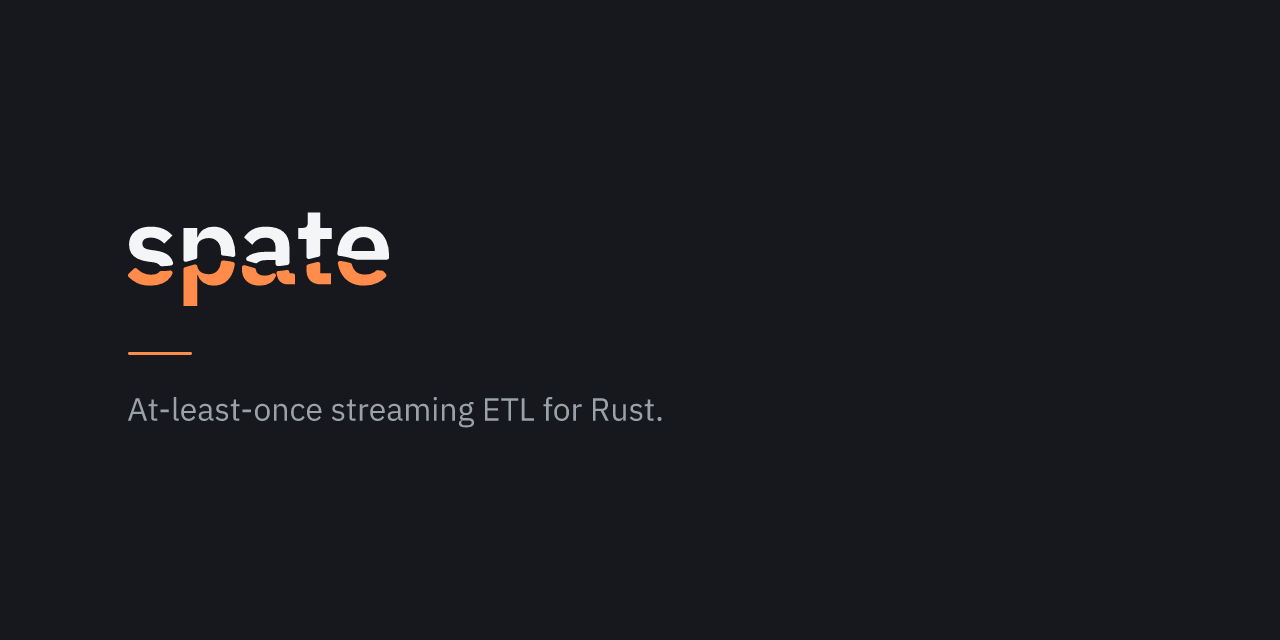
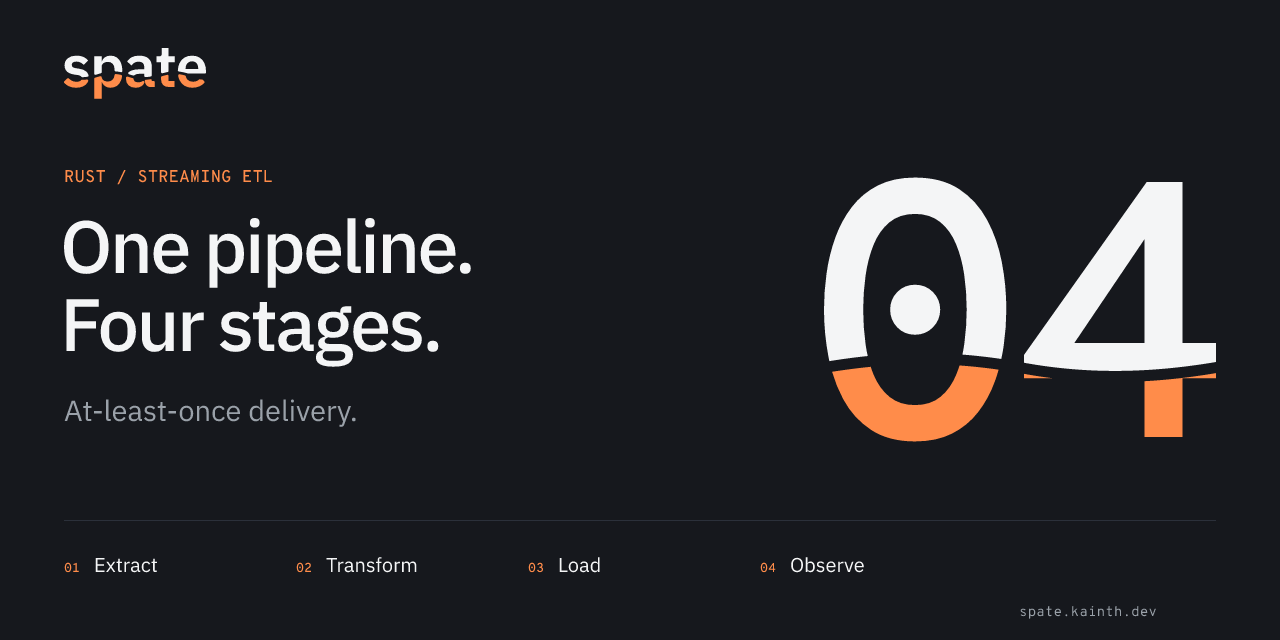
feat(website): the social cards on the waterline system
The site's Open Graph card becomes the title "One pipeline. Four stages." on
the dark ground beside a `04` carrier, with the four stage names beneath a
rule. The `04` counts the stages Extract, Transform, Load and Observe.

waterline.carrier() fits a numeral in Overpass Mono SemiBold into a box by its
ink and cuts it with a channel whose centre is two cubics at 0.72 of the
fitted ink height. The channel's vertical thickness is 0.042 of that height,
clamped to 2 to 20 px, so the water sits at the same height on every carrier
whatever the box's aspect ratio. Ink fills the part above, the accent the part
below, and the carrier is not blunted.

The card keeps GitHub's 1280x640 social preview size. Its layout is drawn for a
1200x630 card, and the extra width and height go to the items anchored right
and to the bottom row.

Overpass Mono is fetched from google/fonts and pinned by SHA-256 beside IBM
Plex Sans. Shaping reads each font's units per em, since Overpass Mono has
2000 and Plex 1000.

The benchmark card is unchanged: the wordmark, "benchmark", the accent rule
and its tagline. It carries no numeral, since a number on a benchmark card
reads as a result.

diff --git a/website/tools/brand/brandgen.py b/website/tools/brand/brandgen.py
@@ -18,42 +18,51 @@ from fontTools.pens.svgPathPen import SVGPathPen
 from fontTools.pens.transformPen import TransformPen
 
 import waterline
-from waterline import SRC_FONT, UPEM, instance
+from waterline import MONO_FONT, SRC_FONT, UPEM, instance
 
 HERE = pathlib.Path(__file__).parent
 STATIC = (HERE / ".." / ".." / "static" / "img").resolve()
 OUT = STATIC / "brand"
 
-# The wordmark is set in IBM Plex Sans (SIL Open Font License 1.1). The font is
-# fetched on demand rather than vendored: the glyphs ship as baked outlines, so
-# the repository never redistributes font software and the license surface is
-# unchanged. Pinned by digest. A mismatch means the upstream file moved, and
-# the wordmark is re-cut deliberately.
-FONT_URL = (
-    "https://github.com/google/fonts/raw/main/ofl/ibmplexsans/"
-    "IBMPlexSans%5Bwdth,wght%5D.ttf"
-)
[1 lines of base64/hex data omitted]
+# The wordmark is set in IBM Plex Sans and the carriers in Overpass Mono (both
+# SIL Open Font License 1.1). The fonts are fetched on demand rather than
+# vendored: the glyphs ship as baked outlines, so the repository never
+# redistributes font software and the license surface is unchanged. Pinned by
+# digest. A mismatch means the upstream file moved, and the artwork is re-cut
+# deliberately.
+FONTS = {
+    SRC_FONT: (
+        "https://github.com/google/fonts/raw/main/ofl/ibmplexsans/"
+        "IBMPlexSans%5Bwdth,wght%5D.ttf",
[1 lines of base64/hex data omitted]
+    ),
+    MONO_FONT: (
+        "https://github.com/google/fonts/raw/main/ofl/overpassmono/"
+        "OverpassMono%5Bwght%5D.ttf",
[1 lines of base64/hex data omitted]
+    ),
+}
 
 
-def ensure_font():
-    if SRC_FONT.exists():
-        digest = hashlib.sha256(SRC_FONT.read_bytes()).hexdigest()
-        if digest == FONT_SHA256:
-            return
-        print(f"cached font digest mismatch, refetching ({digest[:12]}…)")
+def ensure_fonts():
+    for path, (url, sha256) in FONTS.items():
+        if path.exists():
+            digest = hashlib.sha256(path.read_bytes()).hexdigest()
+            if digest == sha256:
+                continue
+            print(f"cached font digest mismatch, refetching ({digest[:12]}…)")
 
-    print(f"fetching {FONT_URL}")
-    SRC_FONT.parent.mkdir(parents=True, exist_ok=True)
-    with urllib.request.urlopen(FONT_URL) as r:  # noqa: S310 - pinned https URL
-        blob = r.read()
+        print(f"fetching {url}")
+        path.parent.mkdir(parents=True, exist_ok=True)
+        with urllib.request.urlopen(url) as r:  # noqa: S310 - pinned https URL
+            blob = r.read()
 
-    digest = hashlib.sha256(blob).hexdigest()
-    if digest != FONT_SHA256:
-        sys.exit(
-            f"font digest mismatch\n  expected {FONT_SHA256}\n  got      {digest}"
-        )
-    SRC_FONT.write_bytes(blob)
+        digest = hashlib.sha256(blob).hexdigest()
+        if digest != sha256:
+            sys.exit(
+                f"font digest mismatch for {path.name}\n  expected {sha256}\n  got      {digest}"
+            )
+        path.write_bytes(blob)
 
 # ---------------------------------------------------------------- palette
 #
@@ -132,15 +141,17 @@ SUB_WEIGHT, SUB_TRACK = 400, -0.012
 
 # ---------------------------------------------------------------- type
 
-def shape(text, weight, tracking=0.0):
-    """Shape `text` at upem scale, baseline at y=0, y-down.
+def shape(text, weight, tracking=0.0, src=SRC_FONT):
+    """Shape `text` in the font's own units, baseline at y=0, y-down.
 
-    Returns (path_d, advance, ink_bounds). `ink_bounds` is (x0, y0, x1, y1) with
-    y0 above the baseline (negative). `tracking` is in em, between glyphs only.
+    Returns (path_d, advance, ink_bounds, upem). `ink_bounds` is (x0, y0, x1, y1)
+    with y0 above the baseline (negative). `tracking` is in em, between glyphs
+    only.
     """
-    font, raw = instance(weight)
+    font, raw = instance(weight, src)
+    upem = font["head"].unitsPerEm
     hbfont = hb.Font(hb.Face(raw))
-    hbfont.scale = (UPEM, UPEM)
+    hbfont.scale = (upem, upem)
 
     buf = hb.Buffer()
     buf.add_str(text)
@@ -160,17 +171,17 @@ def shape(text, weight, tracking=0.0):
         glyphset[name].draw(TransformPen(bpen, t))
         cursor += pos.x_advance
         if i != len(infos) - 1:
-            cursor += tracking * UPEM
+            cursor += tracking * upem
 
-    return spen.getCommands(), cursor, bpen.bounds
+    return spen.getCommands(), cursor, bpen.bounds, upem
 
 
 class Run:
     """A shaped run of text, measured, ready to place at a baseline origin."""
 
-    def __init__(self, text, size, weight, tracking=0.0):
-        d, adv, ink = shape(text, weight, tracking)
-        k = size / UPEM
+    def __init__(self, text, size, weight, tracking=0.0, src=SRC_FONT):
+        d, adv, ink, upem = shape(text, weight, tracking, src)
+        k = size / upem
         self.d = d
         self.k = k
         self.advance = adv * k
@@ -385,25 +396,46 @@ def banner(art, sub, tagline, filename):
     )
 
 
-def gen_banners(art):
-    banner(
-        art,
-        None,
-        "At-least-once streaming ETL for Rust.",
-        "social-spate.svg",
+def gen_social_card(art):
+    """The site's Open Graph card on the dark ground, carrying the `04` of the
+    four stages. The layout is drawn for 1200×630; at 1280×640, items anchored
+    to the right move by the extra width and the bottom row by the extra height."""
+    c = TOKENS["dark"]
+    dx, dy = BANNER_W - 1200, BANNER_H - 630
+    margin = 64
+    fx0, fy0, fx1, _ = finished_ink(art)
+    s = 142 / (fx1 - fx0)
+    body = [f'<rect width="{BANNER_W}" height="{BANNER_H}" fill="{c["bg"]}"/>']
+    body += word_paths(art, Transform(s, 0, 0, s, margin - fx0 * s, 48 - fy0 * s), c["ink"], c["accent"])
+    body += [
+        Run("RUST / STREAMING ETL", 17, 500, src=MONO_FONT).at(64, 182, c["accent"]),
+        Run("One pipeline.", 74, 500, -0.035).at(60, 273, c["ink"]),
+        Run("Four stages.", 74, 500, -0.035).at(60, 351, c["ink"]),
+        Run("At-least-once delivery.", 29, 400).at(64, 421, c["muted"]),
+    ]
+    above, below = waterline.carrier("04", (744 + dx, 158, 392, 303))
+    body += pieces([above], [below], Transform(), c["ink"], c["accent"])
+    body.append(
+        f'<rect x="{margin}" y="{510 + dy}" width="{BANNER_W - 2 * margin}" height="1" fill="{c["border"]}"/>'
     )
+    col = 232
+    for i, stage in enumerate(["Extract", "Transform", "Load", "Observe"]):
+        body.append(Run(f"0{i + 1}", 13, 500, src=MONO_FONT).at(64 + i * col, 562 + dy, c["accent"]))
+        body.append(Run(stage, 20, 400).at(94 + i * col, 562 + dy, c["ink"]))
+    body.append(Run("spate.kainth.dev", 14, 400, src=MONO_FONT).at(939 + dx, 606 + dy, c["muted"]))
+    write("social-spate.svg", svg(f"0 0 {BANNER_W} {BANNER_H}", body, (BANNER_W, BANNER_H)))
+
+
+if __name__ == "__main__":
+    ensure_fonts()
+    gen_tokens()
+    art = waterline.artwork(waterline.P)
+    gen_marks(art, waterline.crop(art))
+    gen_social_card(art)
     banner(
         art,
         "benchmark",
         "Streaming ETL systems on one fixed pipeline: Kafka → Avro → ClickHouse.",
         "social-benchmark.svg",
     )
-
-
-if __name__ == "__main__":
-    ensure_font()
-    gen_tokens()
-    art = waterline.artwork(waterline.P)
-    gen_marks(art, waterline.crop(art))
-    gen_banners(art)
     print("done")

diff --git a/website/tools/brand/waterline.py b/website/tools/brand/waterline.py
@@ -6,7 +6,10 @@ the swell, is knocked out of every glyph. `artwork()` returns the pieces above
 and below the channel for each glyph; the icon is glyph 0 framed by `crop()`.
 Coordinates are upem, y down, baseline at 0.
 
-`brandgen.py` fetches and verifies the font before anything here reads it.
+`carrier()` cuts an Overpass Mono numeral with the simpler channel the
+application surfaces use: two cubics at a fixed height, with no blunting.
+
+`brandgen.py` fetches and verifies the fonts before anything here reads them.
 """
 import io
 import math
@@ -26,6 +29,7 @@ from fontTools.varLib import instancer
 
 HERE = pathlib.Path(__file__).parent
 SRC_FONT = HERE / ".cache" / "IBMPlexSans.ttf"
+MONO_FONT = HERE / ".cache" / "OverpassMono.ttf"
 UPEM = 1000
 ICON_S = 0.76 * 32  # the s's ink height on the 32-unit icon canvas; its ink is centred on (16, 16)
 
@@ -48,24 +52,27 @@ P = dict(
 _instances = {}
 
 
-def instance(weight):
-    if weight not in _instances:
-        f = instancer.instantiateVariableFont(
-            TTFont(SRC_FONT), {"wght": weight, "wdth": 100}, inplace=False
-        )
+def instance(weight, src=SRC_FONT):
+    if (src, weight) not in _instances:
+        f = TTFont(src)
+        axes = {"wght": weight}
+        if any(a.axisTag == "wdth" for a in f["fvar"].axes):
+            axes["wdth"] = 100
+        f = instancer.instantiateVariableFont(f, axes, inplace=False)
         buf = io.BytesIO()
         f.save(buf)
-        _instances[weight] = (f, buf.getvalue())
-    return _instances[weight]
+        _instances[src, weight] = (f, buf.getvalue())
+    return _instances[src, weight]
 
 
-def shape(text, weight, tracking=0.0):
-    """Shape `text` at upem scale, baseline y=0, y-down.
+def shape(text, weight, tracking=0.0, src=SRC_FONT):
+    """Shape `text` in the font's own units, baseline y=0, y-down.
 
     Returns a list of (pathops.Path, ink bounds) per glyph, in run order."""
-    font, raw = instance(weight)
+    font, raw = instance(weight, src)
+    upem = font["head"].unitsPerEm
     hbfont = hb.Font(hb.Face(raw))
-    hbfont.scale = (UPEM, UPEM)
+    hbfont.scale = (upem, upem)
     buf = hb.Buffer()
     buf.add_str(text)
     buf.guess_segment_properties()
@@ -87,7 +94,7 @@ def shape(text, weight, tracking=0.0):
         out.append((path, bpen.bounds))
         cursor += pos.x_advance
         if i != len(infos) - 1:
-            cursor += tracking * UPEM
+            cursor += tracking * upem
     return out
 
 
@@ -384,6 +391,76 @@ def crop(art):
     dx = 16 - (fx0 + fx1) / 2 * k
     dy = 16 - (fy0 + fy1) / 2 * k
     return k, dx, dy
+
+
+# ---------------------------------------------------------------- carriers
+
+CARRIER = dict(
+    weight=600,     # Overpass Mono wght
+    track=-0.055,   # em, between glyphs
+    level=0.72,     # channel centre, fraction down the fitted ink height
+    amp=0.045,      # cubic control offset, fraction of the ink height; the curve reaches 0.75 of it
+    gap=0.042,      # vertical channel thickness, fraction of the ink height ...
+    gap_min=2.0,    # ... clamped to this range, in output units
+    gap_max=20.0,
+    n=64,           # samples per cubic
+)
+
+
+def channel_centre(x, y, w, a, n):
+    """The channel's centre line across `w` at height `y`: two cubics, sampled `n` times each."""
+    segments = (
+        ((x, y), (x + .18 * w, y - a), (x + .33 * w, y - a), (x + .50 * w, y)),
+        ((x + .50 * w, y), (x + .66 * w, y + a), (x + .82 * w, y + a), (x + w, y)),
+    )
+    pts = [segments[0][0]]
+    for p0, p1, p2, p3 in segments:
+        for i in range(1, n + 1):
+            t = i / n
+            u = 1 - t
+            pts.append(tuple(u ** 3 * a0 + 3 * u * u * t * a1 + 3 * u * t * t * a2 + t ** 3 * a3
+                             for a0, a1, a2, a3 in zip(p0, p1, p2, p3)))
+    return pts
+
+
+def vertical_half_plane(pts, dy, above, far=1e5):
+    """Region on one side of the polyline shifted down by `dy`, extended flat past both ends."""
+    shifted = [(x, y + dy) for x, y in pts]
+    edge = -far if above else far
+    (xa, ya), (xb, yb) = shifted[0], shifted[-1]
+    path = pathops.Path()
+    pen = path.getPen()
+    pen.moveTo((xa - far, edge))
+    pen.lineTo((xa - far, ya))
+    for pt in shifted:
+        pen.lineTo(pt)
+    pen.lineTo((xb + far, yb))
+    pen.lineTo((xb + far, edge))
+    pen.closePath()
+    return path
+
+
+def carrier(value, box, p=CARRIER):
+    """`value` in Overpass Mono, fitted into `box` (x, y, w, h) by its ink and cut by the channel.
+
+    Returns the (above, below) pieces in the box's coordinates. The channel is
+    measured from the fitted ink, so the font's metrics never move the water."""
+    word = pathops.Path()
+    for glyph, _ in shape(value, p["weight"], p["track"], MONO_FONT):
+        word.addPath(glyph)
+    word.simplify()
+    x0, y0, x1, y1 = word.bounds
+    bx, by, bw, bh = box
+    k = min(bw / (x1 - x0), bh / (y1 - y0))
+    w, h = (x1 - x0) * k, (y1 - y0) * k
+    x, y = bx + (bw - w) / 2, by + (bh - h) / 2
+    placed = pathops.Path()
+    word.draw(TransformPen(placed.getPen(), Transform(k, 0, 0, k, x - x0 * k, y - y0 * k)))
+    gap = min(max(p["gap"] * h, p["gap_min"]), p["gap_max"])
+    centre = channel_centre(x, y + p["level"] * h, w, p["amp"] * h, p["n"])
+    above = pathops.op(placed, vertical_half_plane(centre, -gap / 2, True), pathops.PathOp.INTERSECTION)
+    below = pathops.op(placed, vertical_half_plane(centre, +gap / 2, False), pathops.PathOp.INTERSECTION)
+    return above, below
 
 
 # ---------------------------------------------------------------- output

diff --git a/website/tools/brand/README.md b/website/tools/brand/README.md
@@ -40,15 +40,18 @@ routes it visits and no graphic pair anywhere.
 ## Typeface
 
 The wordmark is IBM Plex Sans, SemiBold at −0.022 em for `spate` and Regular at
-−0.012 em for a second word. Glyphs are shaped with HarfBuzz and baked to
+−0.012 em for a second word. The large numerals, or carriers, on the social card
+are Overpass Mono SemiBold at −0.055 em, cut by a channel of two cubics at 0.72
+of their ink height, with no blunting. Glyphs are shaped with HarfBuzz and baked to
 outlines, so no asset carries a font dependency and the repository never
 redistributes font software. The site sets its text in the same family and its
 code in Overpass Mono, served from the `@fontsource/ibm-plex-sans` and
 `@fontsource-variable/overpass-mono` packages (SIL Open Font License 1.1) at
 build time; those files are a dependency, not part of the repository.
 
-`brandgen.py` pins the upstream file by SHA-256. A digest mismatch stops the
-run, since the wordmark would otherwise be re-cut from a different source.
+`brandgen.py` fetches both upstream files from `google/fonts` and pins each by
+SHA-256. A digest mismatch stops the run, since the artwork would otherwise be
+re-cut from a different source.
 
 ## What goes where
 
